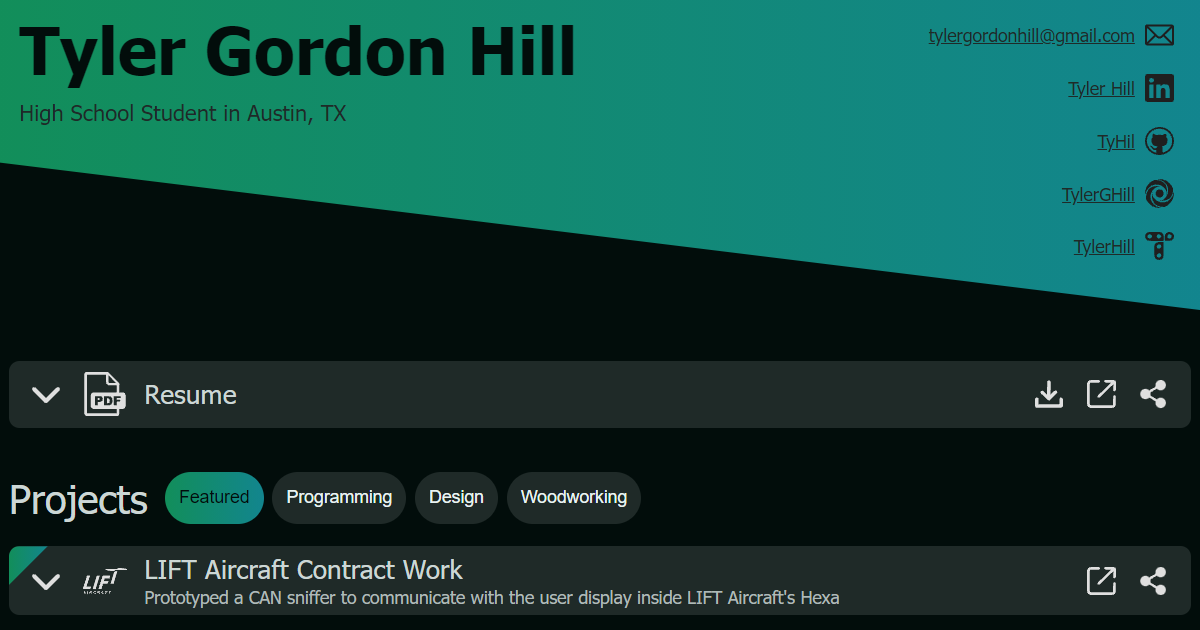
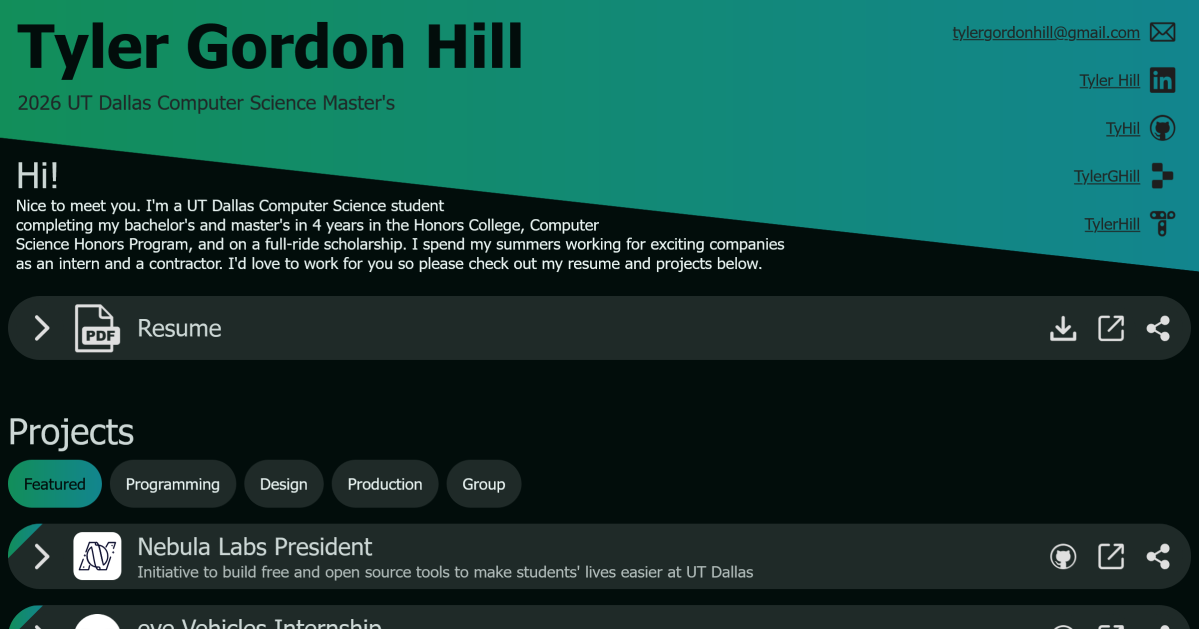
Update link preview and splash text

diff --git a/src/index.html b/src/index.html
@@ -24,7 +24,7 @@
     <meta property="og:image:type" content="image/png" />
     <meta
       property="og:image:alt"
-      content="Screenshot of the website displaying the name Tyler Gordon Hill, contact links, a link to a resume, and the start to a list of projects with LIFT Aircraft Contract Work at the top. "
+      content="Screenshot of the website displaying the name Tyler Gordon Hill, contact links, a link to a resume, and the start to a list of projects with Nebula Labs President at the top. "
     />
     <meta property="og:image:width" content="1200" />
     <meta property="og:image:height" content="630" />
@@ -54,7 +54,7 @@
           <span class="noWrap">G<span id="sat">o</span>rd<span id="bri">o</span>n</span>
           <span class="noWrap">Hil<span id="tilt">l</span></span>
         </h1>
-        <h4 id="splashText">2025 UT Dallas Computer Science</h4>
+        <h4 id="splashText">2026 UT Dallas Computer Science Master's</h4>
       </div>
       <div id="right">
         <a
